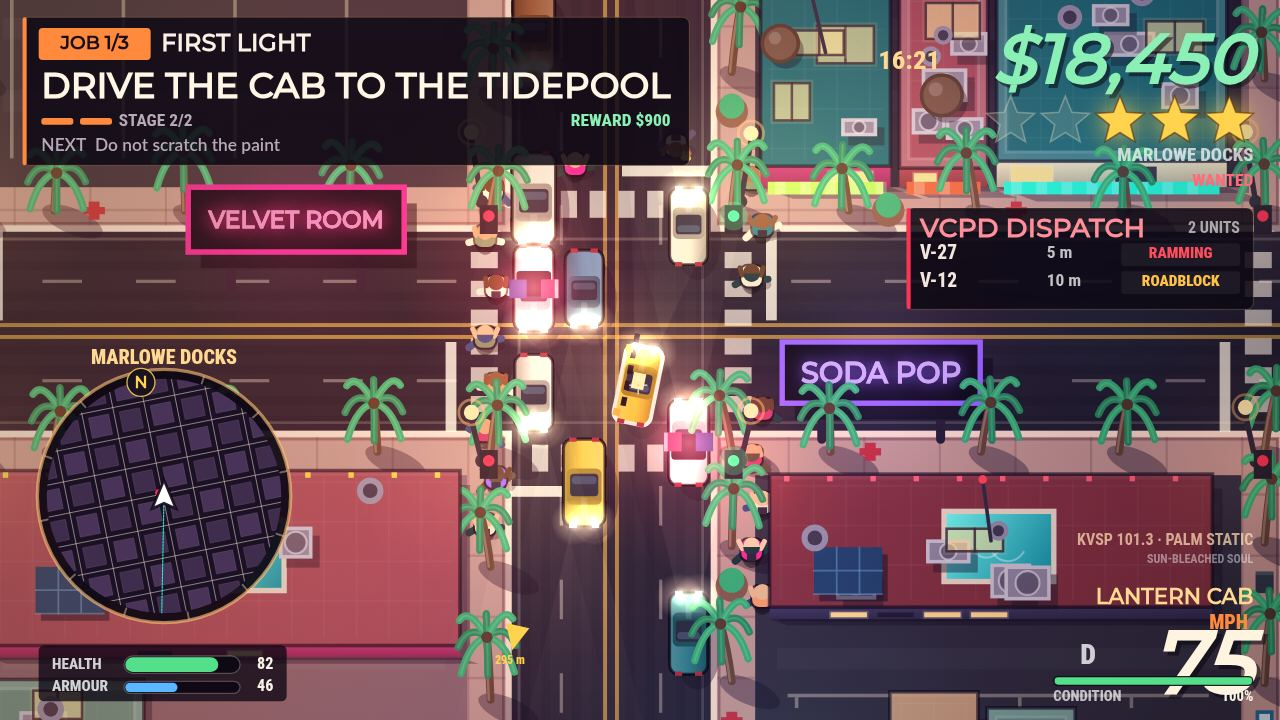
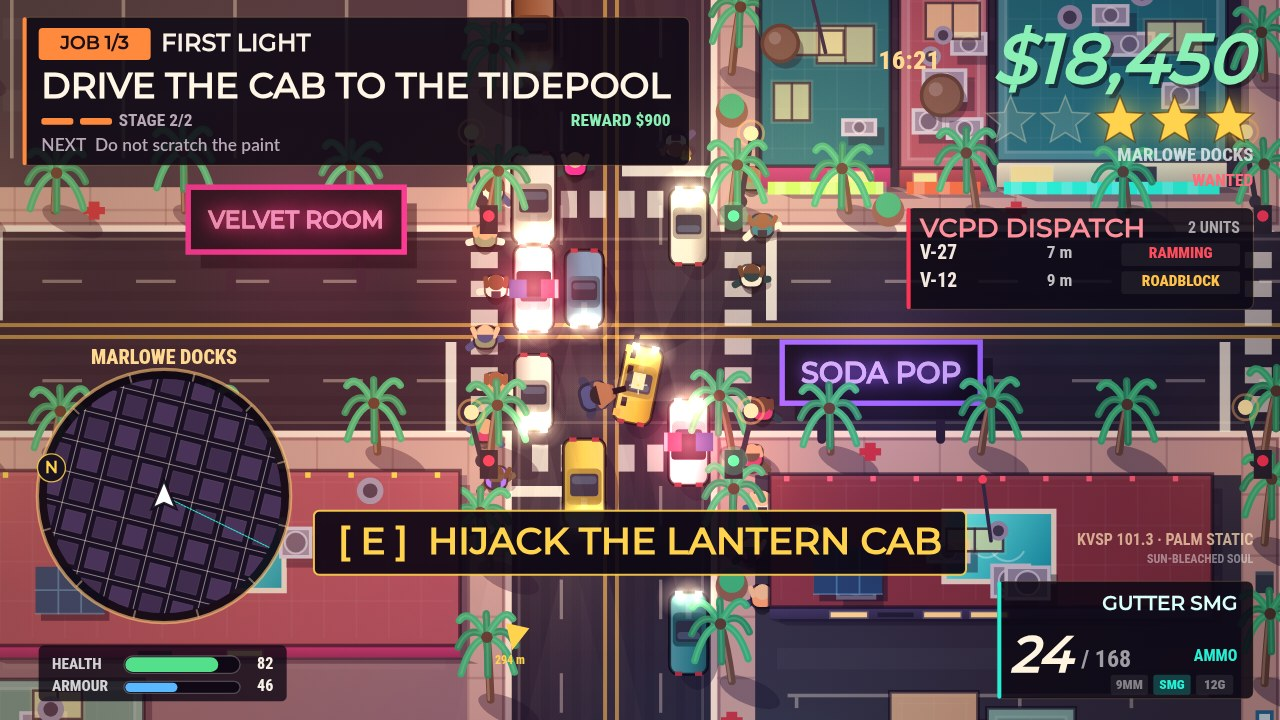
Show the player on foot in the cover frame

diff --git a/game/src/scenes.js b/game/src/scenes.js
@@ -187,20 +187,14 @@ function stageCover(game) {
   const player = game.player;
   game.hour = 16.35;
   game.traffic.setClock?.(11.2);
-  // The stolen cab is already on its way to the Tidepool.
+  // The stolen cab has stopped and its driver is on foot beside it.
   const car = createVehicle('taxi', X + 15, Y + 30, -Math.PI / 2 + 0.2, '#f6c33d');
-  car.driver = 'player';
-  car.speed = 342;
-  car.vx = 58;
-  car.vy = -336;
-  car.slip = 62;
-  car.roll = 0.06;
   car.indicator = 1;
   car.indicatorOn = true;
   game.vehicles.push(car);
-  player.inCar = car;
-  player.x = car.x;
-  player.y = car.y;
+  player.inCar = null;
+  player.x = car.x - 24;
+  player.y = car.y + 6;
   player.health = 82;
   player.armour = 46;
   player.money = 18450;
@@ -265,7 +259,7 @@ function stageCover(game) {
   for (let k = 0; k < 9; k += 1) game.effects.spawnTyreSmoke(car.x - 18 - k * 10, car.y + 36 + k * 4, car.angle + 0.3);
   game.effects.spawnSparks(X + 43, Y - 96, 0.6, 6);
   camera(game, X + 16, Y + 16, 1.8);
-  player.angle = -Math.PI / 2 + 0.2;
+  player.angle = Math.atan2(car.y - player.y, car.x - player.x);
   game.sceneAim = { x: car.x, y: car.y };
   return 'play';
 }
